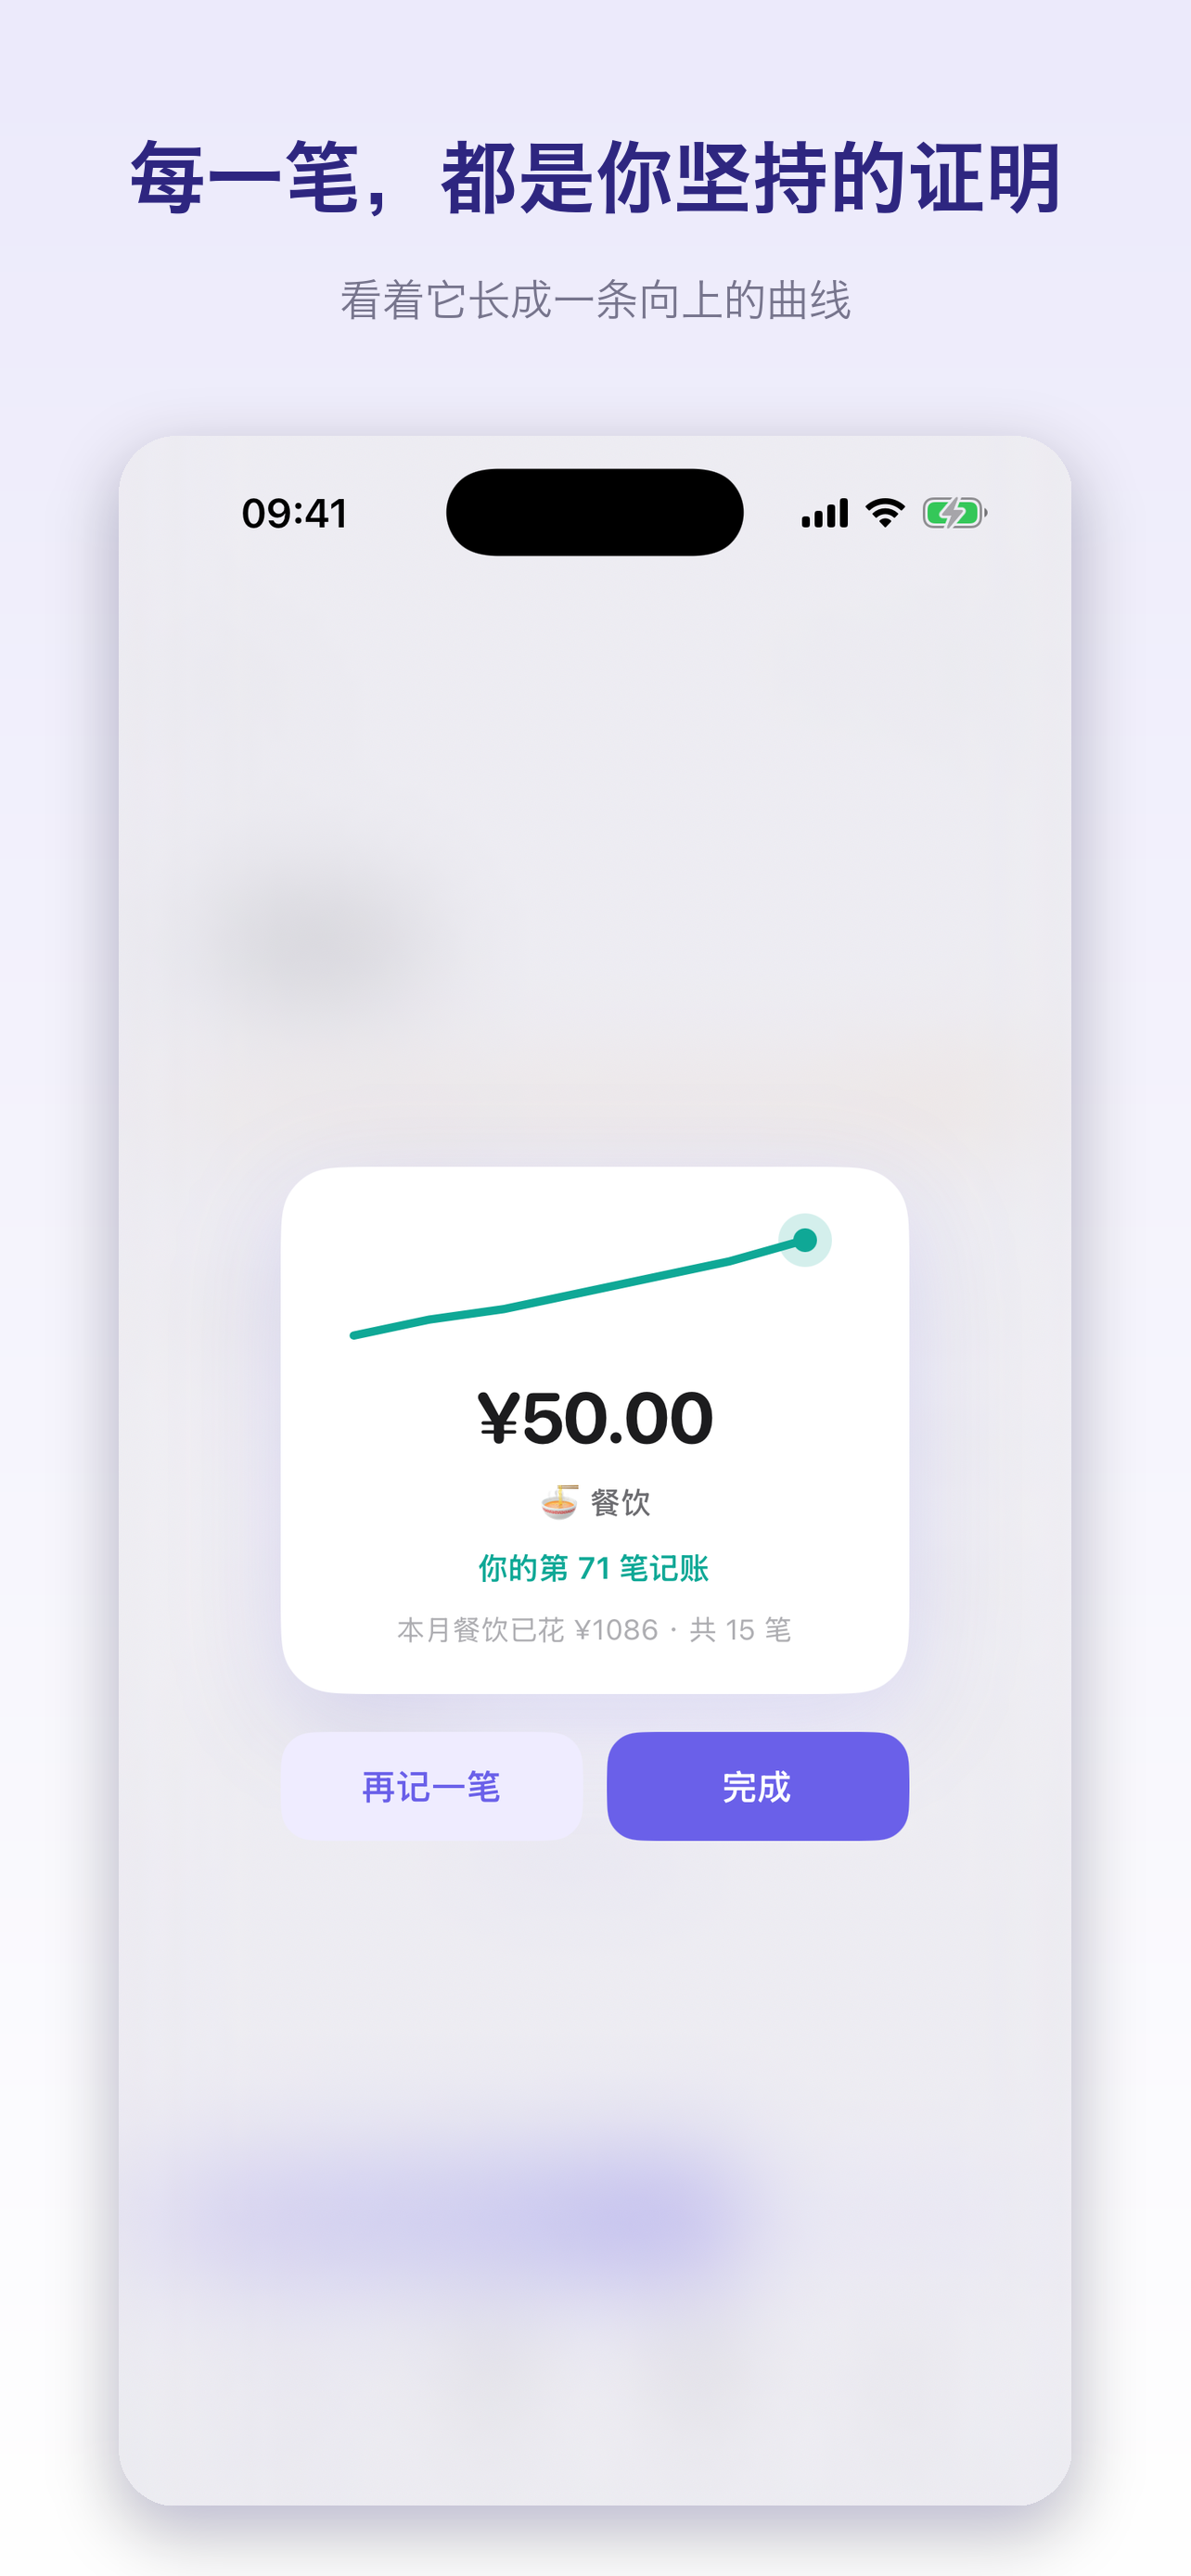
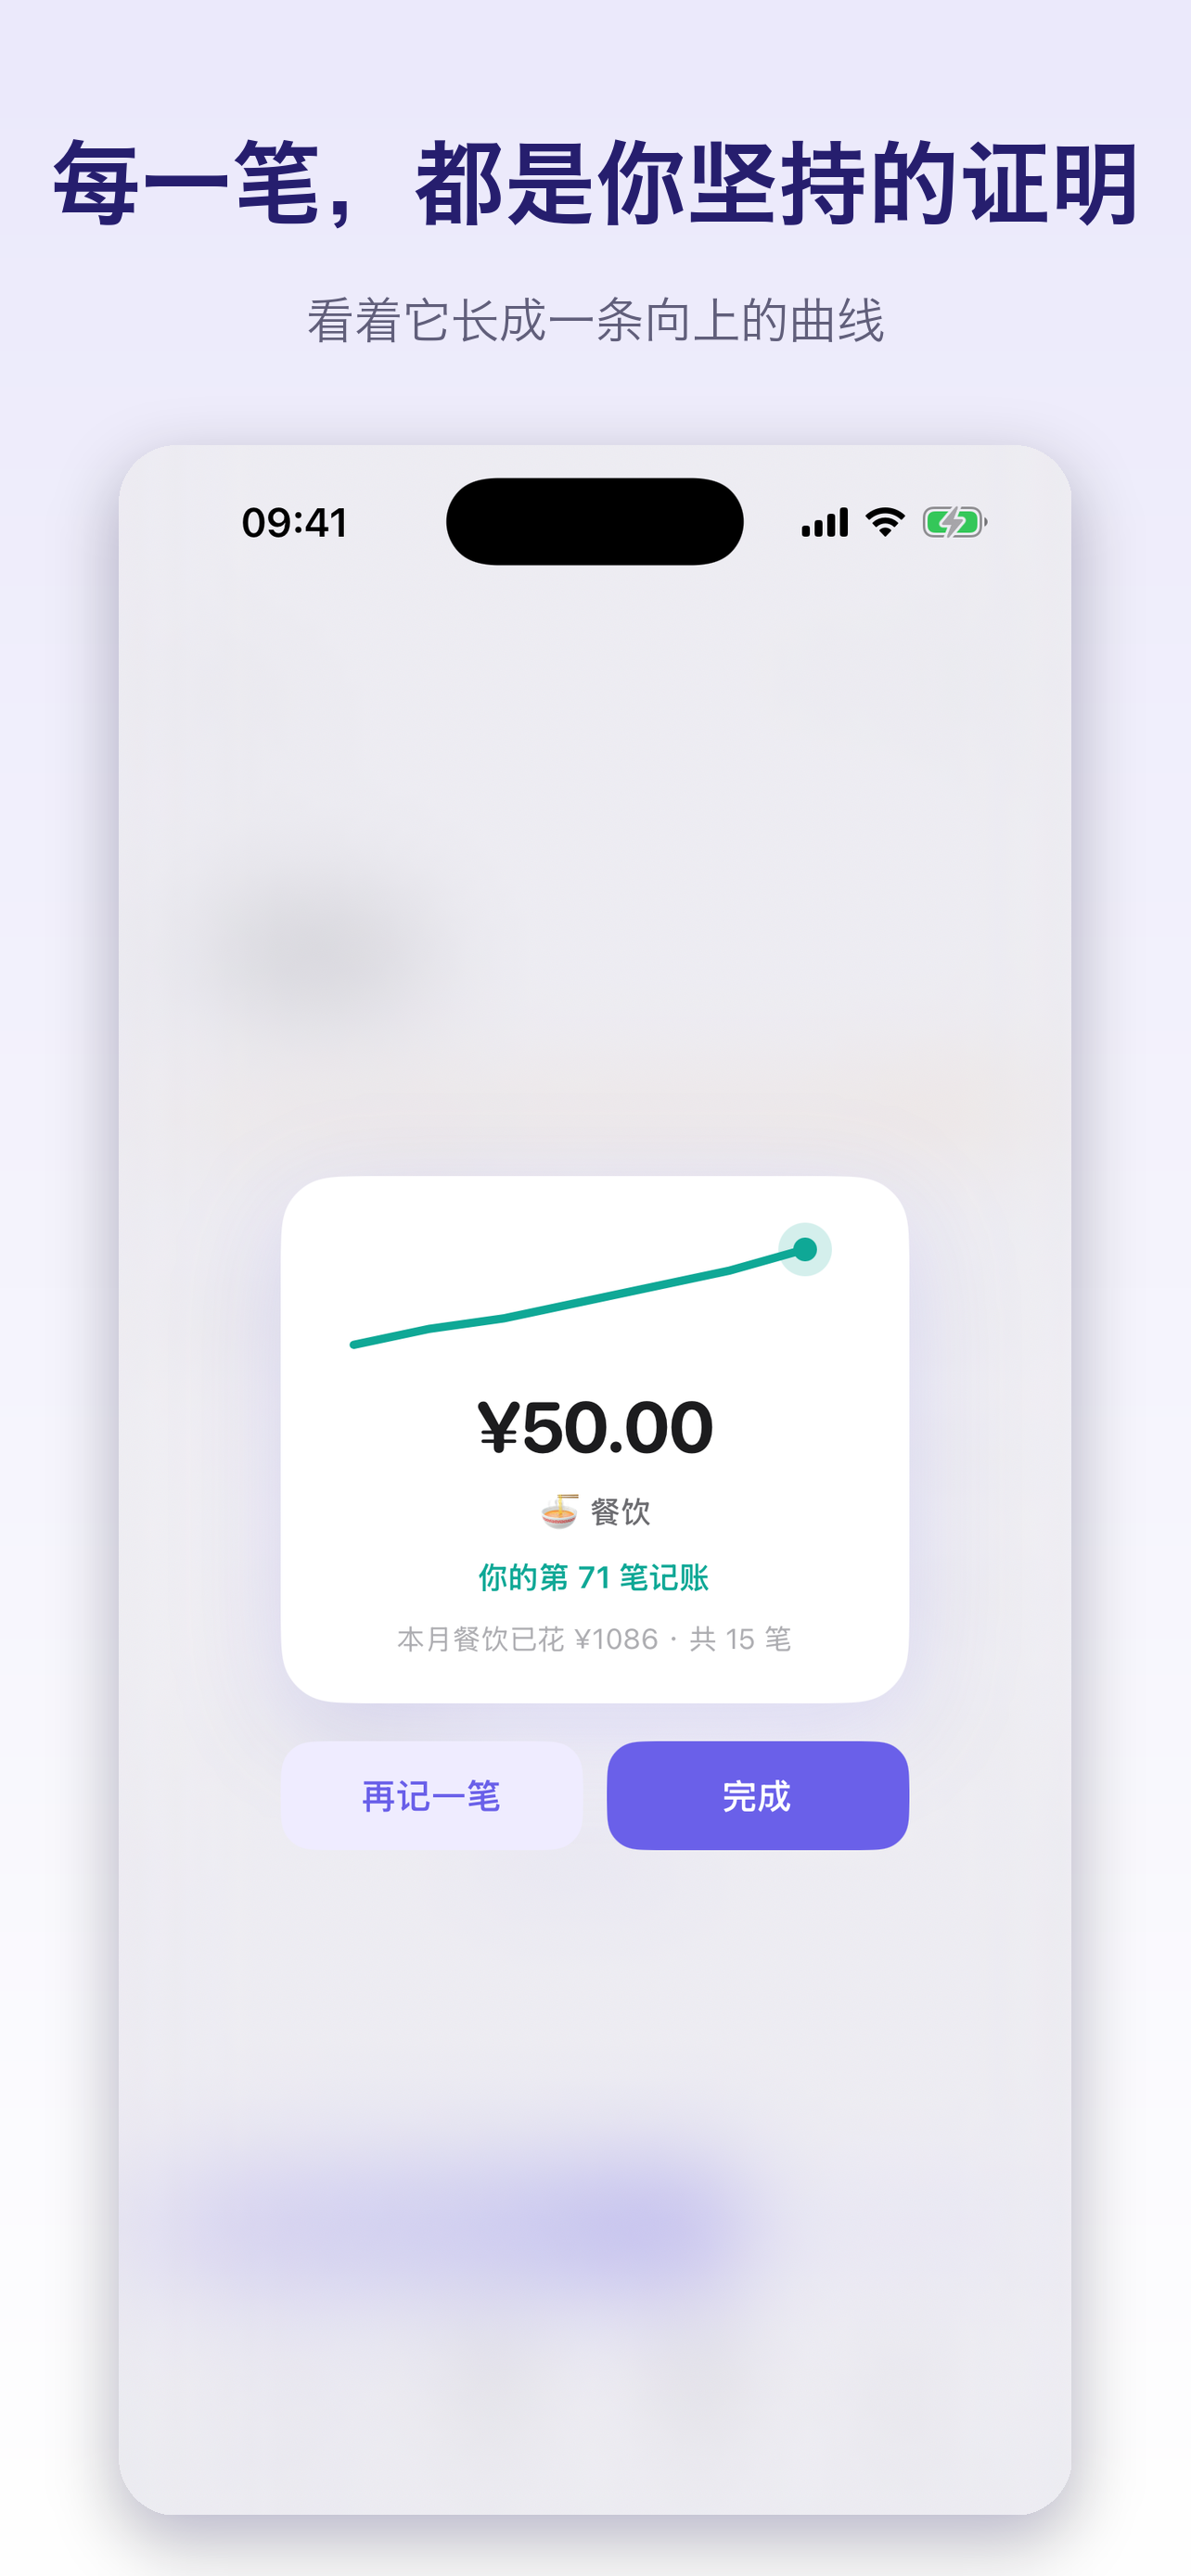
v1.0.1 (build 3)：内购自动解锁修复 + 版本号变量化 + 宣传图重排
- StoreKit：新增 Transaction.updates 监听 + 回前台重新核对权益，
  促销码兑换/其它设备购买后自动解锁（修复"兑换后不解锁"）
- 解锁页价格兜底 ¥25 → ¥28（与真实内购一致）
- 版本号：Info.plist 改为引用 $(MARKETING_VERSION)/$(CURRENT_PROJECT_VERSION)，
  修复 Info.plist 字面值覆盖 Xcode 版本设置的问题；版本 1.0.1 / build 3
- 宣传图(6.7")重排：差异点打头(语音→导入→统计→纯净→隐私→积累→买断)，
  文案加大加粗提对比

diff --git a/SanJiao/Services/UnlockManager.swift b/SanJiao/Services/UnlockManager.swift
@@ -49,10 +49,35 @@ final class UnlockManager {
         return d == 0 ? "今天是最后一天" : "试用期还剩 \(d) 天"
     }
 
+    private var updatesTask: Task<Void, Never>?
+
     // MARK: - Init
 
     init() {
+        updatesTask = listenForTransactions()
         Task { await setup() }
+    }
+
+    deinit { updatesTask?.cancel() }
+
+    /// 监听 App Store 侧到达的交易——促销码兑换、其它设备购买、Ask to Buy 批准等
+    /// 都通过 Transaction.updates 推送进来，保证 app 运行中也能即时解锁。
+    private func listenForTransactions() -> Task<Void, Never> {
+        Task.detached { [weak self] in
+            for await result in StoreKit.Transaction.updates {
+                guard let self else { continue }
+                if case .verified(let tx) = result, tx.productID == Self.productID {
+                    await tx.finish()
+                    await MainActor.run { self.state = .unlocked }
+                }
+            }
+        }
+    }
+
+    /// 回前台 / 兑换后重新核对权益——只升级到已解锁，不会把已解锁降级。
+    @MainActor
+    func refreshEntitlements() async {
+        if await hasPurchased() { state = .unlocked }
     }
 
     // MARK: - Setup

diff --git a/SanJiao/SanJiaoApp.swift b/SanJiao/SanJiaoApp.swift
@@ -66,9 +66,13 @@ struct QingyuApp: App {
         .modelContainer(sharedModelContainer)
         .onChange(of: scenePhase) { _, phase in
             switch phase {
-            case .background: appLock.lockOnBackground()  // 退后台→标记需重新解锁
-            case .active:     appLock.authenticate()      // 回前台→自动唤起认证
-            default:          break
+            case .background:
+                appLock.lockOnBackground()                 // 退后台→标记需重新解锁
+            case .active:
+                appLock.authenticate()                     // 回前台→自动唤起认证
+                Task { await unlockManager.refreshEntitlements() }  // 回前台→重新核对购买(促销码等)
+            default:
+                break
             }
         }
     }

diff --git a/SanJiao/Views/Mine/PaywallView.swift b/SanJiao/Views/Mine/PaywallView.swift
@@ -124,7 +124,7 @@ struct PaywallView: View {
                         HStack(spacing: 8) {
                             Text("立即解锁").font(.system(size: 17, weight: .semibold))
                             Text("·").opacity(0.5)
-                            Text(unlock.product?.displayPrice ?? "¥25").font(.system(size: 17, weight: .semibold))
+                            Text(unlock.product?.displayPrice ?? "¥28").font(.system(size: 17, weight: .semibold))
                         }
                     }
                 }

diff --git a/RELEASE_CHECKLIST.md b/RELEASE_CHECKLIST.md
@@ -43,7 +43,7 @@
 - [x] 隐私/权限文案三语一致（简/繁/英）【已核对】
 - [x] `appStoreID` 已填入真实 ID `6779131633`（MineView.swift）【我·已完成】
 - [x] 应用锁（Face ID / 密码进入 + 设置开关）已实现，描述里「支持应用锁」宣称成立【我·已完成】
-- [ ] 版本号确认（当前 1.0 / build 1）
+- [x] 版本号 1.0 / build 2（build 1 已上 TestFlight 实测，发现的暗色/滚动/文案问题已在 build 2 修复）【我·已完成】
 
 ## D. 宣传素材
 - [x] App 图标 1024（含深底羽笔 + ¥）【已就绪】